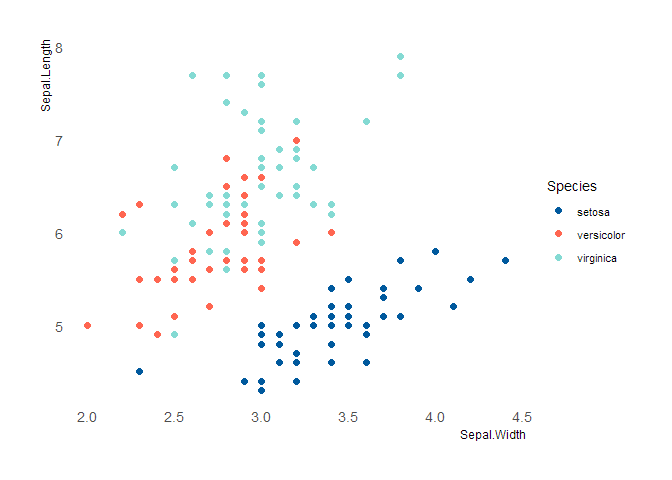
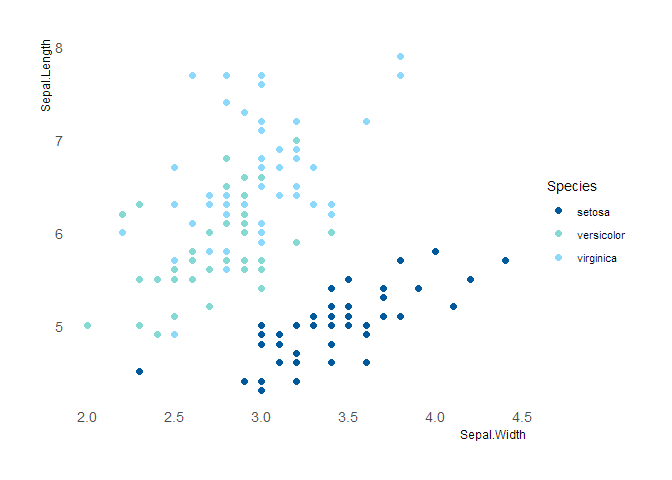
Small tweaks
Darkened the grey colour; Added illustrations for palettes

diff --git a/Readme.md b/Readme.md
@@ -1,4 +1,4 @@
-PraxisColour Readme
+Readme
 ================
 Maris Vainre
 19/02/2020
@@ -17,6 +17,7 @@ post](https://drsimonj.svbtle.com/creating-corporate-colour-palettes-for-ggplot2
 library(ggplot2)
 library(hrbrthemes)
 library(PraxisColour)
+library(tidyverse)
 
 praxis_pal("main")(3)
 ```
@@ -34,7 +35,7 @@ praxis_pal("main")(10)
 praxis_pal("binary")(2)
 ```
 
-    ## [1] "#00599D" "#F2F2F2"
+    ## [1] "#00599D" "#D9D9D9"
 
 ``` r
 praxis_pal("cool")(3)
@@ -52,7 +53,7 @@ praxis_pal("traffic")(3)
 praxis_pal("full")(7)
 ```
 
-    ## [1] "#00599D" "#FF6651" "#84DAD3" "#FFD85D" "#8CD9FC" "#BAE18F" "#F2F2F2"
+    ## [1] "#00599D" "#FF6651" "#84DAD3" "#FFD85D" "#8CD9FC" "#BAE18F" "#D9D9D9"
 
 ## Ggplot examples
 
@@ -63,12 +64,33 @@ ggplot(mtcars, aes(hp, mpg)) +
     theme_ipsum_tw(grid=FALSE)
 ```
 
-![](Readme_files/figure-gfm/dots-1.png)<!-- -->
+![](Readme_files/figure-gfm/dotsSin-1.png)<!-- -->
 
 ``` r
 ggplot(iris, aes(Sepal.Width, Sepal.Length, color = Species)) +
   geom_point(size = 2) +
   scale_color_praxis()  +
+    theme_ipsum_tw(grid=FALSE)
+```
+
+![](Readme_files/figure-gfm/dots3-1.png)<!-- -->
+
+``` r
+iris.sub <- iris %>%
+  filter(Species != "versicolor")
+
+ggplot(iris.sub, aes(Sepal.Width, Sepal.Length, color = Species)) +
+  geom_point(size = 2) +
+  scale_color_praxis(palette = "binary")  +
+    theme_ipsum_tw(grid=FALSE)
+```
+
+![](Readme_files/figure-gfm/dotsBin-1.png)<!-- -->
+
+``` r
+ggplot(iris, aes(Sepal.Width, Sepal.Length, color = Species)) +
+  geom_point(size = 2) +
+  scale_color_praxis(palette = "cool")  +
     theme_ipsum_tw(grid=FALSE)
 ```
 
@@ -82,6 +104,15 @@ ggplot(mpg, aes(manufacturer, fill = manufacturer)) +
 ```
 
 ![](Readme_files/figure-gfm/bargradient-1.png)<!-- -->
+
+``` r
+ggplot(mpg, aes(manufacturer, fill = manufacturer)) +
+  geom_bar()+
+  scale_fill_praxis(palette = "full", guide = "none") +
+  theme_ipsum(grid=FALSE, axis_text_size = 6)
+```
+
+![](Readme_files/figure-gfm/barAll-1.png)<!-- -->
 
 # Installing the package
 
